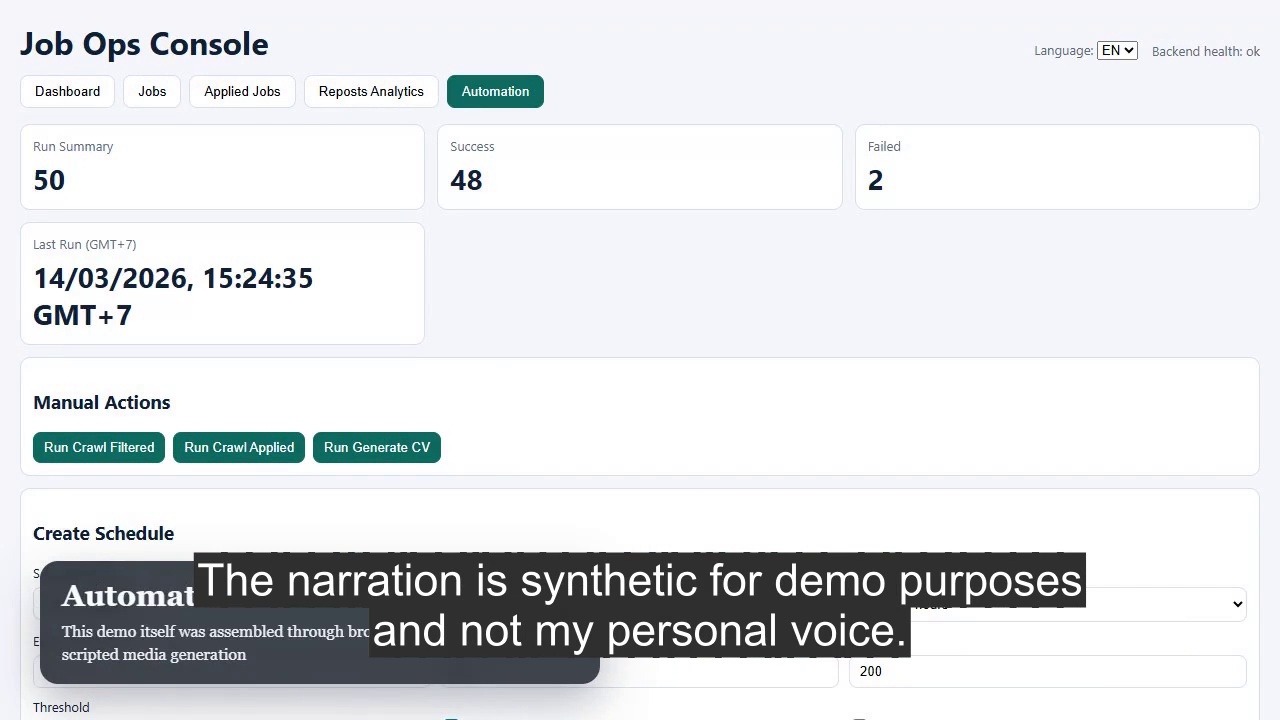
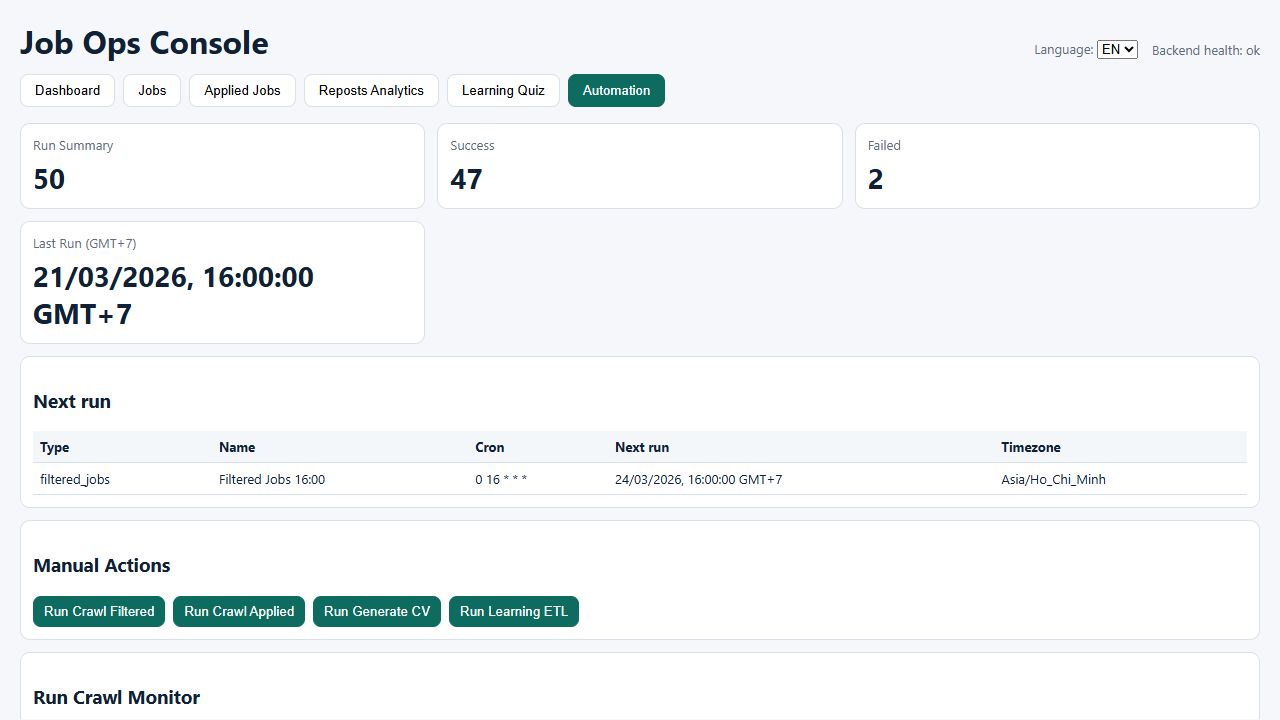
Update automation console and dashboard screenshots

diff --git a/showcase_assets/architecture/basic_project_architecture.md b/showcase_assets/architecture/basic_project_architecture.md
@@ -219,6 +219,21 @@ The project intentionally applies a few recognizable engineering patterns:
 
 These choices make the system easier to scale in complexity without collapsing all logic into one script or one controller.
 
+## Current System Snapshot (Ordinal Docs 01–10)
+
+The showcase now reflects the present implementation captured in `docs/current_system_workflow.mmd` (ordered 01→10):
+
+- **Ingestion & Normalization (01–02, 09):** LinkedIn/Seek/Apify crawlers → parse/normalize → SQLite (`job_posts`, `crawl_runs`) with feature extraction, chunking, and embeddings (`job_text_embeddings`).
+- **Learning ETL (02–03):** Seed `learning_plan.md`, crawl daily knowledge, chunk + hash embed into `learning_question_chunks`, mandatory enrichment (SLM-first, LLM fallback), publishable explanations only on gate pass.
+- **Automation & Scheduling (03, 10):** APScheduler + AutomationService trigger bat scripts (`run_linkedin_jobs_jd.bat`, `run_linkedin_jobs_applied_tracker.bat`, `run_learning_etl.py`, `render_cv_docx.bat`) with run/lock tracking.
+- **Fit Evaluation (06):** Heuristic fit scoring; borderline cases reranked via local LLM gateway; scores persisted to `job_fit_scores`.
+- **CV Rewrite (09–10):** Heuristic context selection (no semantic retrieval), prompt assembly, LLM rewrite, validation, render DOCX/PDF artifacts under `documents/` and `input/Raw_CV/`.
+- **Learning Quiz Runtime (03):** Quiz APIs read stored Q/A/explanations; no runtime LLM; retrieval not used at query time.
+- **Retrieval Footprint (04–05):** Embeddings stored (jobs, learning) but not invoked during inference outside enrichment; vector tables idle for runtime context—clear insertion points for future RAG.
+- **Observability (08):** `backend.log`, `backend.error.log`, `apps/backend/app/logs/etl_runs/*.log`, `automation_runs`, `llm_prompts` manifests provide run-level traces.
+
+This section is intentionally descriptive: it mirrors the current state (including gaps like unused retrieval during CV rewrite) while keeping the showcase concise and non-sensitive.
+
 ## Showcase Scope
 
 This architecture note is intentionally limited to a presentation-level overview.

diff --git a/README.md b/README.md
@@ -37,6 +37,38 @@ In addition to the application workflow itself, I also built a practical local d
 
 ![Jobs Workspace](showcase_assets/images/jobs_workspace.png)
 
+### Job Detail Modal
+
+![Job Detail Modal](showcase_assets/images/jobs_detail_modal.png)
+
+### Applied Jobs Workspace
+
+![Applied Jobs Workspace](showcase_assets/images/applied_jobs_workspace.png)
+
+### Applied Jobs Trend
+
+![Applied Jobs Trend](showcase_assets/images/applied_jobs_trend.png)
+
+### Reposts Analytics
+
+![Reposts Analytics](showcase_assets/images/analytics_reposts.png)
+
+### Learning Quiz
+
+![Learning Quiz](showcase_assets/images/learning_quiz.png)
+
+### Learning Knowledge
+
+![Learning Knowledge](showcase_assets/images/learning_knowledge.png)
+
+### Automation Schedules
+
+![Automation Schedules](showcase_assets/images/automation_schedules.png)
+
+### Automation Runs
+
+![Automation Runs](showcase_assets/images/automation_runs.png)
+
 ### Automation Console
 
 ![Automation Console](showcase_assets/images/automation_console.png)
@@ -49,6 +81,7 @@ These excerpts are intentionally partial and are provided only to show implement
 - [Backend API and filtering excerpt](showcase_assets/code/backend_api_excerpt.md)
 - [CV generation and artifact workflow excerpt](showcase_assets/code/cv_generation_excerpt.md)
 - [Frontend analytics and interaction excerpt](showcase_assets/code/frontend_analytics_excerpt.md)
+- [Learning quiz and knowledge workflow excerpt](showcase_assets/code/learning_quiz_excerpt.md)
 
 ## Architecture Overview
 
